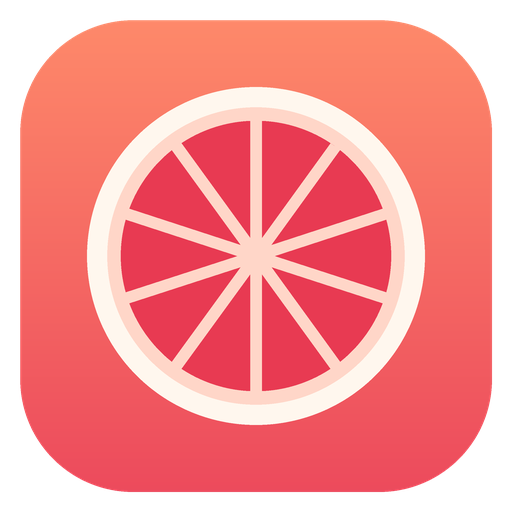
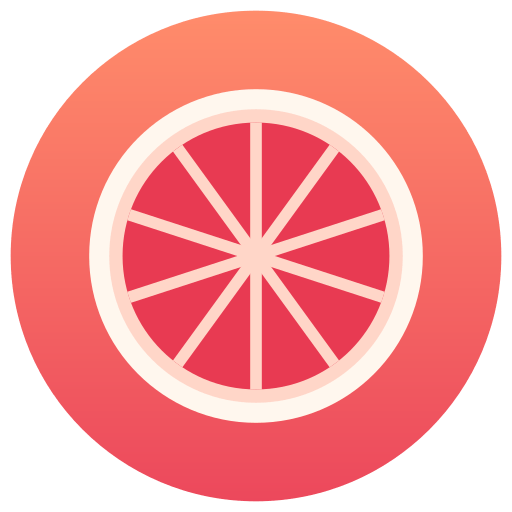
Grapefruit Music & Podcasts 5.0: a new look
5.0 beta 11 as stable (versionCode 61). Over 4.1.2: pill-shaped
controls, a floating tab bar and mini player, rounded artwork and cards,
a redesigned Now Playing, a tab rail and two-column Now Playing on
landscape and square screens, Library and Podcasts chips that switch
sections in place and float as the page scrolls (Search as a chip), one
round app icon and launcher entry, Grapefruit Light pages in peach and
Pitch Black in grapefruit colours (Starlight retired), podcast episodes
without music buttons and with 15-second skips, lyrics fetched as songs
start and kept offline, and less drawing while music plays.

The store listing's icon is the round launcher icon too, made by
tools/brand/logo.py (store_icon) at 512 px.

Claude-Session: https://claude.ai/code/session_017vFCTF1DneW9BYtSHRGrzs

diff --git a/tools/brand/logo.py b/tools/brand/logo.py
@@ -280,8 +280,8 @@ def android(text, res):
 def icons(res):
     """The app's icon, the same in every theme: the launcher's (48dp; the grapefruit round, edge to
     edge but for a hairline), its adaptive layers for Android 8 and later (the picture filling a
-    108dp layer, on the picture's own colour; launchers mask it, round on most), and the About
-    page's (88dp)."""
+    108dp layer, on the picture's own colour; launchers mask it, round on most), the About
+    page's (88dp), and the store listing's (512 px)."""
     for density, scale in DENSITIES.items():
         mipmap = Path(res) / ("mipmap-" + density)
         mipmap.mkdir(parents=True, exist_ok=True)
@@ -289,6 +289,7 @@ def icons(res):
         png(svg(108, 108, "Grapefruit", adaptive_layer("a")), 108 * scale, mipmap / "ic_launcher_foreground.png")
         drawable = Path(res) / ("drawable-" + density)
         png(svg(88, 88, "Grapefruit", grapefruit(44, 44, 88, "b")), 88 * scale, drawable / "ic_about.png")
+    store_icon(Path(res).parents[3] / "fastlane" / "metadata" / "android" / "en-US" / "images" / "icon.png")
     anydpi = Path(res) / "mipmap-anydpi-v26"
     anydpi.mkdir(parents=True, exist_ok=True)
     (anydpi / "ic_launcher.xml").write_text("""<?xml version="1.0" encoding="utf-8"?>
@@ -298,6 +299,11 @@ def icons(res):
     <foreground android:drawable="@mipmap/ic_launcher_foreground" />
 </adaptive-icon>
 """)
+
+
+def store_icon(path):
+    """The store listing's icon (F-Droid, 512 px): the launcher icon, larger."""
+    png(svg(48, 48, "Grapefruit", grapefruit(24, 24, 46, "l")), 512, path)
 
 
 WORDMARK = "Grapefruit Music & Podcasts"

diff --git a/docs/releases/5.0-telegram.md b/docs/releases/5.0-telegram.md
@@ -1,0 +1,26 @@
+🍊 Grapefruit Music & Podcasts 5.0
+
+A new look, top to bottom:
+• Pills everywhere: buttons, chips, text fields, search boxes and notices are rounded pills, and artwork and cards are rounded too, with a play button right on album and playlist cards.
+• The tab bar and mini player float over the page as pills (the mini player with round artwork), and the page scrolls underneath them.
+• Now Playing is redesigned: artwork with a soft glow in its own colour, a background tinted to match, a big round play button with shuffle and repeat beside it, and rounded buttons for Lyrics, Karaoke, Live and Up Next.
+• Landscape and square screens (Unihertz Titan, Clicks Communicator, tablets) get a side tab rail and a two-column Now Playing.
+• Library and Podcasts: chips for each section (Recently Added, Playlists, Artists, Albums, Songs; Discover, Subscriptions, Downloads) switch the page in place and stay put; the title scrolls away and the chips float at the top. Search is a chip, and On This Device picks where the music comes from. Sideways, the chips float in a column at the left.
+• One round app icon (the Telegram channel's grapefruit) in every theme, with a single launcher entry.
+• Themes: Grapefruit Light's pages share Settings' peach, and Pitch Black stays black with Grapefruit's coral and cream. Starlight is retired; it becomes Grapefruit Light.
+• The Podcasts tab has its own icon.
+
+Podcasts:
+• Episodes drop the buttons that don't apply (Lyrics, Karaoke, Live), and previous/next jump 15 seconds back and forward.
+
+Lyrics:
+• A song's lyrics are looked up a few seconds after it starts (your server or a .lrc file first, then LRCLIB) and saved, so they're ready when you open Lyrics and work offline.
+
+Also:
+• Less work for older tablets while music plays, to give Karaoke Mode and Live Mode room: long titles scroll a few times and only where you can see them, and Now Playing's artwork glow is drawn by the graphics chip.
+• Podcasts' Exclusions & sources explains the discovery policy as a whole, and long popups leave room at the top and bottom of the screen.
+• Fixed: the ⋯ button beside songs cut off on playlists and albums, the back button cut off at the top of playlist pages, and the tag editor's Change Artwork button stretching across the screen.
+• Still runs on Android 4.2.2 and later; updates over 4.1.2 with the same signing key.
+
+Download: https://github.com/hayliewordsman/grapefruitmusic/releases/tag/v5.0
+F-Droid: https://hayliewordsman.github.io/grapefruitmusic/

diff --git a/docs/releases/5.0-validation.md b/docs/releases/5.0-validation.md
@@ -1,0 +1,29 @@
+# Grapefruit Music & Podcasts 5.0 — build 61
+
+5.0 is 5.0 beta 11 (build 60) as stable: the same code, with versionCode 61 and versionName 5.0.
+What it brings over 4.1.2 (betas 1 to 11; details in their validation notes):
+
+- Design: Ui.PILL controls (chips, buttons, fields, notices, the mini player and tab bar), rounded
+  artwork and cards (with play buttons on album, playlist and podcast cards), the floating pill tab
+  bar and mini player over the page (bottom_bars, fitPage), and Now Playing's redesign (tinted
+  background, artwork glow from a cached alpha mask, transport with shuffle and repeat, rounded action
+  buttons). Pill press highlights on rows; rounded-square highlights on cards.
+- Layouts: tab rail and two-column Now Playing on wide and square windows (Ui.wide); sideways card
+  pages on wide windows (RowAdapter.landscape).
+- Library and Podcasts sections (SectionMenu): chips switch sections in place (MainActivity.showLibrary,
+  showPodcasts), kept while the tab is open; the title scrolls with the page and the chips float at
+  the top (FloatingChips) or in a column on wide windows; Search chip; source picker.
+- One round app icon and launcher entry (adaptive icon, mipmap-anydpi-v26), generated by
+  tools/brand/logo.py; per-theme icons and AppIcon removed.
+- Themes: Grapefruit Light pages in the grouped peach; Pitch Black in grapefruit colours on black;
+  Starlight retired (shown as Grapefruit Light).
+- Podcasts: no Lyrics/Karaoke/Live for episodes (Player.effectsFor turns Karaoke and Live off for
+  them), 15-second skips; Podcasts tab icon (Icons.PODCASTS).
+- Lyrics prefetched as songs start and saved for offline (LyricsRepository.prefetch).
+- Playback load: marquees limited to three passes and only where visible; no software layer for the
+  artwork shadow. Audio code (DspEngine, Dsp, VocalRemover, LiveCrowd, LiveStage) unchanged since 4.1.2.
+- Discovery: generalised "How discovery exclusions work"; shorter disclosure ending "…MagicFlute LLC
+  or Grapefruit."; long popups capped short of the screen's height.
+- Fixes: ⋯ buttons clipped and oversized dots, playlist back button clipped, Change Artwork width.
+- minSdk 17 (Android 4.2.2) as before; signed with the same key, so it updates 4.1.2 and the betas.
+- Local Gradle (JDK 21): assembleDebug, assembleRelease, testDebugUnitTest, lintDebug.
